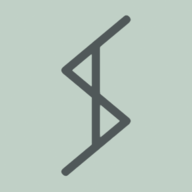
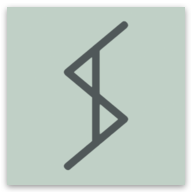
new file:   README.md

diff --git a/index.html b/index.html
@@ -8,11 +8,14 @@
     <!-- <link rel="icon" type="image/x-icon" href="favicon.png" /> -->
     <link rel="apple-touch-icon" sizes="180x180" href="apple-touch-icon.png" />
     <link rel="icon" type="image/png" sizes="32x32" href="favicon-32x32.png" />
+    <link rel="icon" type="image/png" sizes="194x194" href="favicon-194x194.png" />
+    <link rel="icon" type="image/png" sizes="192x192" href="android-chrome-192x192.png" />
     <link rel="icon" type="image/png" sizes="16x16" href="favicon-16x16.png" />
     <link rel="manifest" href="site.webmanifest" />
-    <link rel="mask-icon" href="safari-pinned-tab.svg" color="#5bbad5" />
-    <meta name="msapplication-TileColor" content="#4e5859" />
-    <meta name="theme-color" content="#ffffff" />
+    <link rel="mask-icon" href="safari-pinned-tab.svg" color="#4e5859" />
+    <meta name="msapplication-TileColor" content="#00aba9" />
+    <meta name="msapplication-TileImage" content="/mstile-144x144.png" />
+    <meta name="theme-color" content="#4e5859" />
     <link rel="stylesheet" href="normalize.css" />
     <link rel="stylesheet" href="style.css" />
   </head>

diff --git a/html_code.html b/html_code.html
@@ -1,0 +1,10 @@
+<link rel="apple-touch-icon" sizes="180x180" href="/apple-touch-icon.png">
+<link rel="icon" type="image/png" sizes="32x32" href="/favicon-32x32.png">
+<link rel="icon" type="image/png" sizes="194x194" href="/favicon-194x194.png">
+<link rel="icon" type="image/png" sizes="192x192" href="/android-chrome-192x192.png">
+<link rel="icon" type="image/png" sizes="16x16" href="/favicon-16x16.png">
+<link rel="manifest" href="/site.webmanifest">
+<link rel="mask-icon" href="/safari-pinned-tab.svg" color="#4e5859">
+<meta name="msapplication-TileColor" content="#00aba9">
+<meta name="msapplication-TileImage" content="/mstile-144x144.png">
+<meta name="theme-color" content="#4e5859">

diff --git a/README.md b/README.md
@@ -1,0 +1,24 @@
+# Your Favicon Package
+
+This package was generated with [RealFaviconGenerator](https://realfavicongenerator.net/) [v0.16](https://realfavicongenerator.net/change_log#v0.16)
+
+## Install instructions
+
+To install this package:
+
+Extract this package in the root of your web site. If your site is <code>http://www.example.com</code>, you should be able to access a file named <code>http://www.example.com/favicon.ico</code>.
+
+Insert the following code in the `head` section of your pages:
+
+    <link rel="apple-touch-icon" sizes="180x180" href="/apple-touch-icon.png">
+    <link rel="icon" type="image/png" sizes="32x32" href="/favicon-32x32.png">
+    <link rel="icon" type="image/png" sizes="194x194" href="/favicon-194x194.png">
+    <link rel="icon" type="image/png" sizes="192x192" href="/android-chrome-192x192.png">
+    <link rel="icon" type="image/png" sizes="16x16" href="/favicon-16x16.png">
+    <link rel="manifest" href="/site.webmanifest">
+    <link rel="mask-icon" href="/safari-pinned-tab.svg" color="#4e5859">
+    <meta name="msapplication-TileColor" content="#00aba9">
+    <meta name="msapplication-TileImage" content="/mstile-144x144.png">
+    <meta name="theme-color" content="#4e5859">
+
+*Optional* - Check your favicon with the [favicon checker](https://realfavicongenerator.net/favicon_checker)
